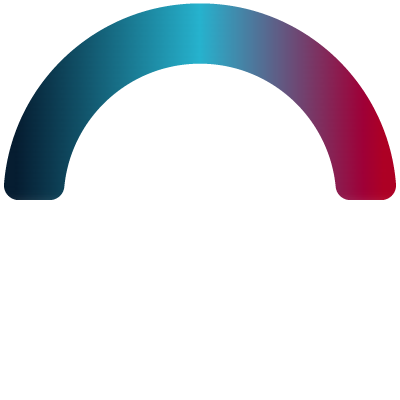
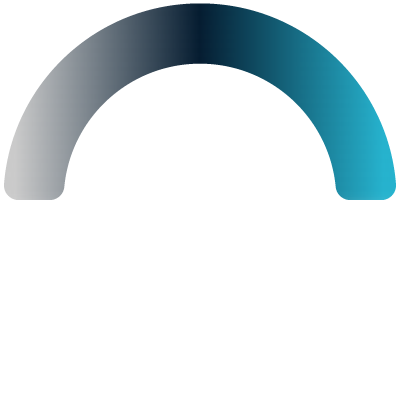
CFI update

Changed region(s): [[0.0, 0.0, 0.99, 0.51]]

diff --git a/report-pdf-CFI.css b/report-pdf-CFI.css
@@ -162,31 +162,31 @@ ul.cover-toc li {
 	left:calc(50% - 15px);
 }
 .gear-1 {
-	background-color:#091728;
+	background-color:#cacaca;
 }
 .gear-2 {
-	background-color:#113548;
+	background-color:#999fa4;
 }
 .gear-3 {
-	background-color:#16495f;
+	background-color:#6b7680;
 }
 .gear-4 {
-	background-color:#24809c;
+	background-color:#4c5b68;
 }
 .gear-5 {
-	background-color:#2da3c2;
+	background-color:#081f33;
 }
 .gear-6 {
-	background-color:#3a6e94;
+	background-color:#125970;
 }
 .gear-7 {
-	background-color:#573964;
+	background-color:#1b8099;
 }
 .gear-8 {
-	background-color:#642451;
+	background-color:#22a0bb;
 }
 .gear-9 {
-	background-color:#970522;
+	background-color:#26b3ce;
 }
 
 /* top 4 */
@@ -343,7 +343,7 @@ ul.medic-report li {
 	border:2px solid #ffffff;
 	border-radius:6px;
 	background: rgb(38,255,0);
-    background: linear-gradient(90deg, rgba(0,38,63,1) 4%, rgba(0,190,214,1) 50%, rgba(193,2,48,1) 96%);
+    background: linear-gradient(90deg, rgba(212,212,212,1) 4%, rgba(0,38,63,1) 50%, rgba(0,190,214,1) 96%);
 }
 div.sev-bar-dot {
 	position:absolute;
@@ -382,7 +382,7 @@ div.sev-bar-dot {
 	height:40px;
 	border-radius:20px;
 	background: rgb(38,255,0);
-    background: linear-gradient(90deg, rgba(0,38,63,1) 4%, rgba(0,190,214,1) 50%, rgba(193,2,48,1) 96%);
+    background: linear-gradient(90deg, rgba(212,212,212,1) 4%, rgba(0,38,63,1) 50%, rgba(0,190,214,1) 96%);
 }
 div.sev-bar-dot-top {
 	position:absolute;
